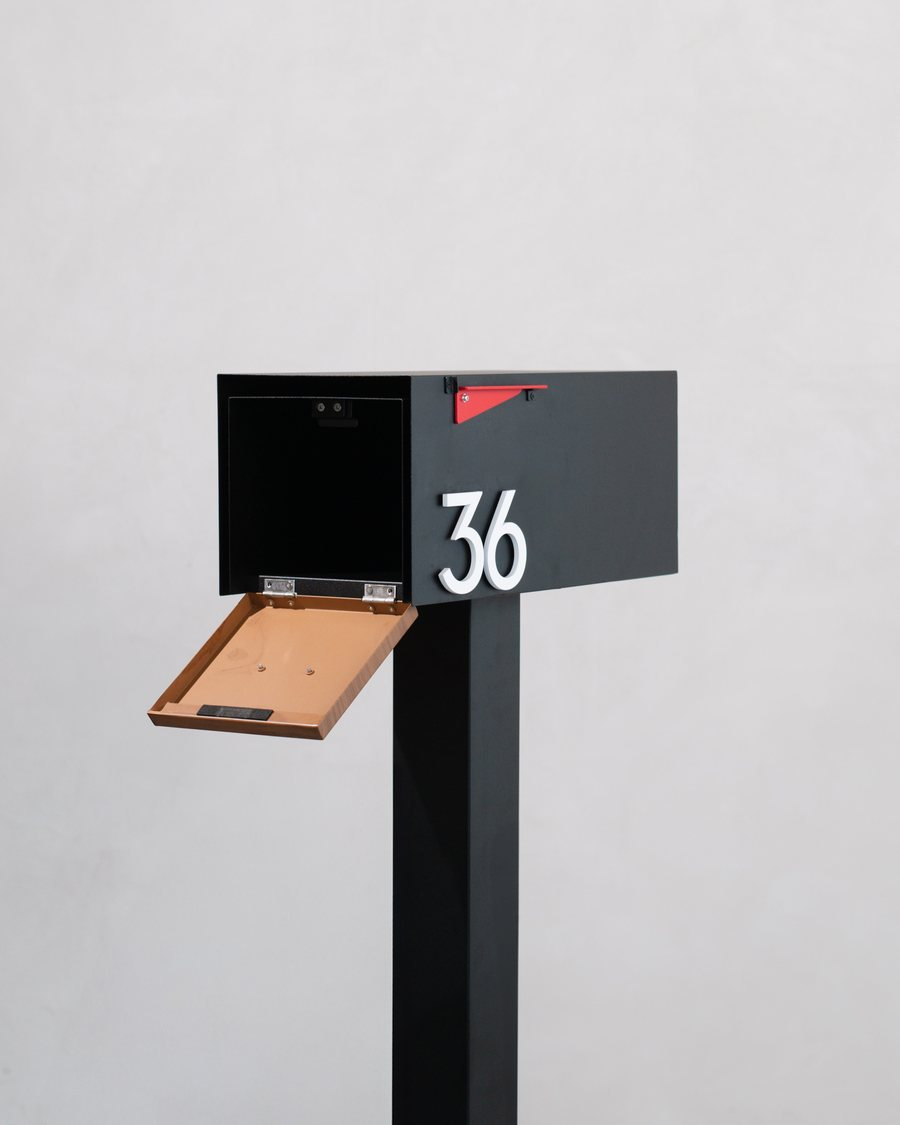
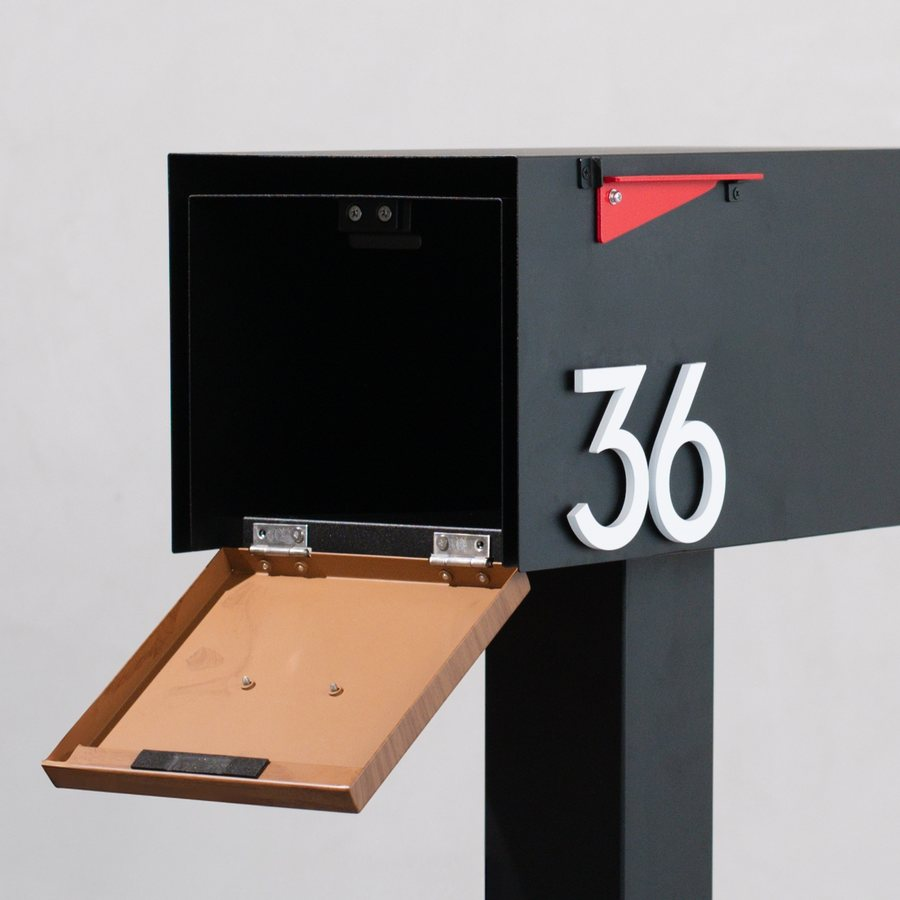
Fix mobile hero: product was below the fold on a real iPhone
- Regenerated hero-mobile as a tight 1:1 crop (flag-to-just-below-door)
  computed from the full-res source, replacing the ~40% dead grey
  headroom crop. Tightened hero-desktop similarly (less aggressively).
- Tightened mobile-only hero spacing: less copy-block padding/margins,
  one-line credential chip ("4.8 . 800+ reviews . Made in Utah" on
  mobile, full text restored >=900px), reassurance line moved out of
  the first screen (hidden <900px; still covered by the trust strip +
  footer further down the page).
- Verified: hero__media now starts at ~44% of a 390x844 viewport, with
  the mailbox visible almost immediately inside the image (vs. not
  visible at all pre-fix). Desktop hero re-confirmed unaffected.

diff --git a/assets/style.css b/assets/style.css
@@ -145,7 +145,7 @@ summary:focus-visible,
   display: flex;
   flex-direction: column;
   justify-content: center;
-  padding: 40px 20px 36px;
+  padding: 20px 20px 16px;
 }
 @media (min-width: 768px) { .hero__copy { padding: 48px 32px 44px; } }
 @media (min-width: 900px) { .hero__copy { padding: 48px 56px; max-width: 560px; } }
@@ -153,33 +153,41 @@ summary:focus-visible,
 .hero__credential {
   display: inline-flex;
   align-items: center;
-  gap: 8px;
+  gap: 6px;
   background: var(--white);
   border: 1px solid var(--border);
   border-radius: 999px;
-  padding: 8px 14px;
+  padding: 7px 14px;
   font-size: 13px;
   font-weight: 600;
   color: var(--ink);
-  margin-bottom: 20px;
+  margin-bottom: 12px;
   width: fit-content;
+  white-space: nowrap;
 }
 .hero__credential .stars { color: var(--redend-point); letter-spacing: 1px; }
+.hero__credential-full { display: none; }
+@media (min-width: 900px) {
+  .hero__credential { margin-bottom: 20px; white-space: normal; }
+  .hero__credential-short { display: none; }
+  .hero__credential-full { display: inline; }
+}
 
 .hero h1 {
-  font-size: 34px;
-  line-height: 1.12;
-  margin-bottom: 16px;
+  font-size: 32px;
+  line-height: 1.14;
+  margin-bottom: 8px;
 }
-@media (min-width: 768px) { .hero h1 { font-size: 46px; } }
+@media (min-width: 768px) { .hero h1 { font-size: 46px; margin-bottom: 16px; } }
 @media (min-width: 1100px) { .hero h1 { font-size: 54px; } }
 
 .hero__sub {
-  font-size: 18px;
+  font-size: 16px;
   color: var(--ink-soft);
   max-width: 460px;
-  margin-bottom: 26px;
+  margin-bottom: 14px;
 }
+@media (min-width: 768px) { .hero__sub { font-size: 18px; margin-bottom: 26px; } }
 .hero__sub .prod { font-weight: 600; color: var(--ink); }
 
 .hero__ctaRow { display: flex; flex-wrap: wrap; align-items: center; gap: 16px; }
@@ -187,10 +195,12 @@ summary:focus-visible,
 .hero__price span { color: var(--ink-soft); font-family: var(--font-body); font-size: 13px; display: block; }
 
 .hero__reassure {
+  display: none;
   margin-top: 18px;
   font-size: 13px;
   color: var(--ink-soft);
 }
+@media (min-width: 900px) { .hero__reassure { display: block; } }
 
 .hero__media {
   position: relative;

diff --git a/index.html b/index.html
@@ -34,7 +34,9 @@
   <div class="hero__grid">
     <div class="hero__copy">
       <div class="hero__credential">
-        <span class="stars">&#9733;&#9733;&#9733;&#9733;&#9733;</span> 4.8 from 800+ reviews &middot; Made in Woods Cross, Utah
+        <span class="stars">&#9733;&#9733;&#9733;&#9733;&#9733;</span>
+        <span class="hero__credential-short">4.8 &middot; 800+ reviews &middot; Made in Utah</span>
+        <span class="hero__credential-full">4.8 from 800+ reviews &middot; Made in Woods Cross, Utah</span>
       </div>
       <h1>The last mailbox you&rsquo;ll ever need.</h1>
       <p class="hero__sub">14-gauge US-made steel. Powder-coated to shrug off weather. Installs in under an hour. Meet <span class="prod"><em>The Malone</em></span>.</p>
@@ -49,7 +51,7 @@
         <source media="(min-width: 900px)" srcset="assets/img/hero-desktop.webp" type="image/webp">
         <source media="(min-width: 900px)" srcset="assets/img/hero-desktop.jpg">
         <source srcset="assets/img/hero-mobile.webp" type="image/webp">
-        <img src="assets/img/hero-mobile.jpg" alt="The Malone post-mounted mailbox in Black, door open showing the wood-tone interior, with magnetic house numbers and the signature red flag" width="900" height="1125" loading="eager">
+        <img src="assets/img/hero-mobile.jpg" alt="The Malone post-mounted mailbox in Black, door open showing the wood-tone interior, with magnetic house numbers and the signature red flag" width="900" height="900" loading="eager">
       </picture>
     </div>
   </div>
